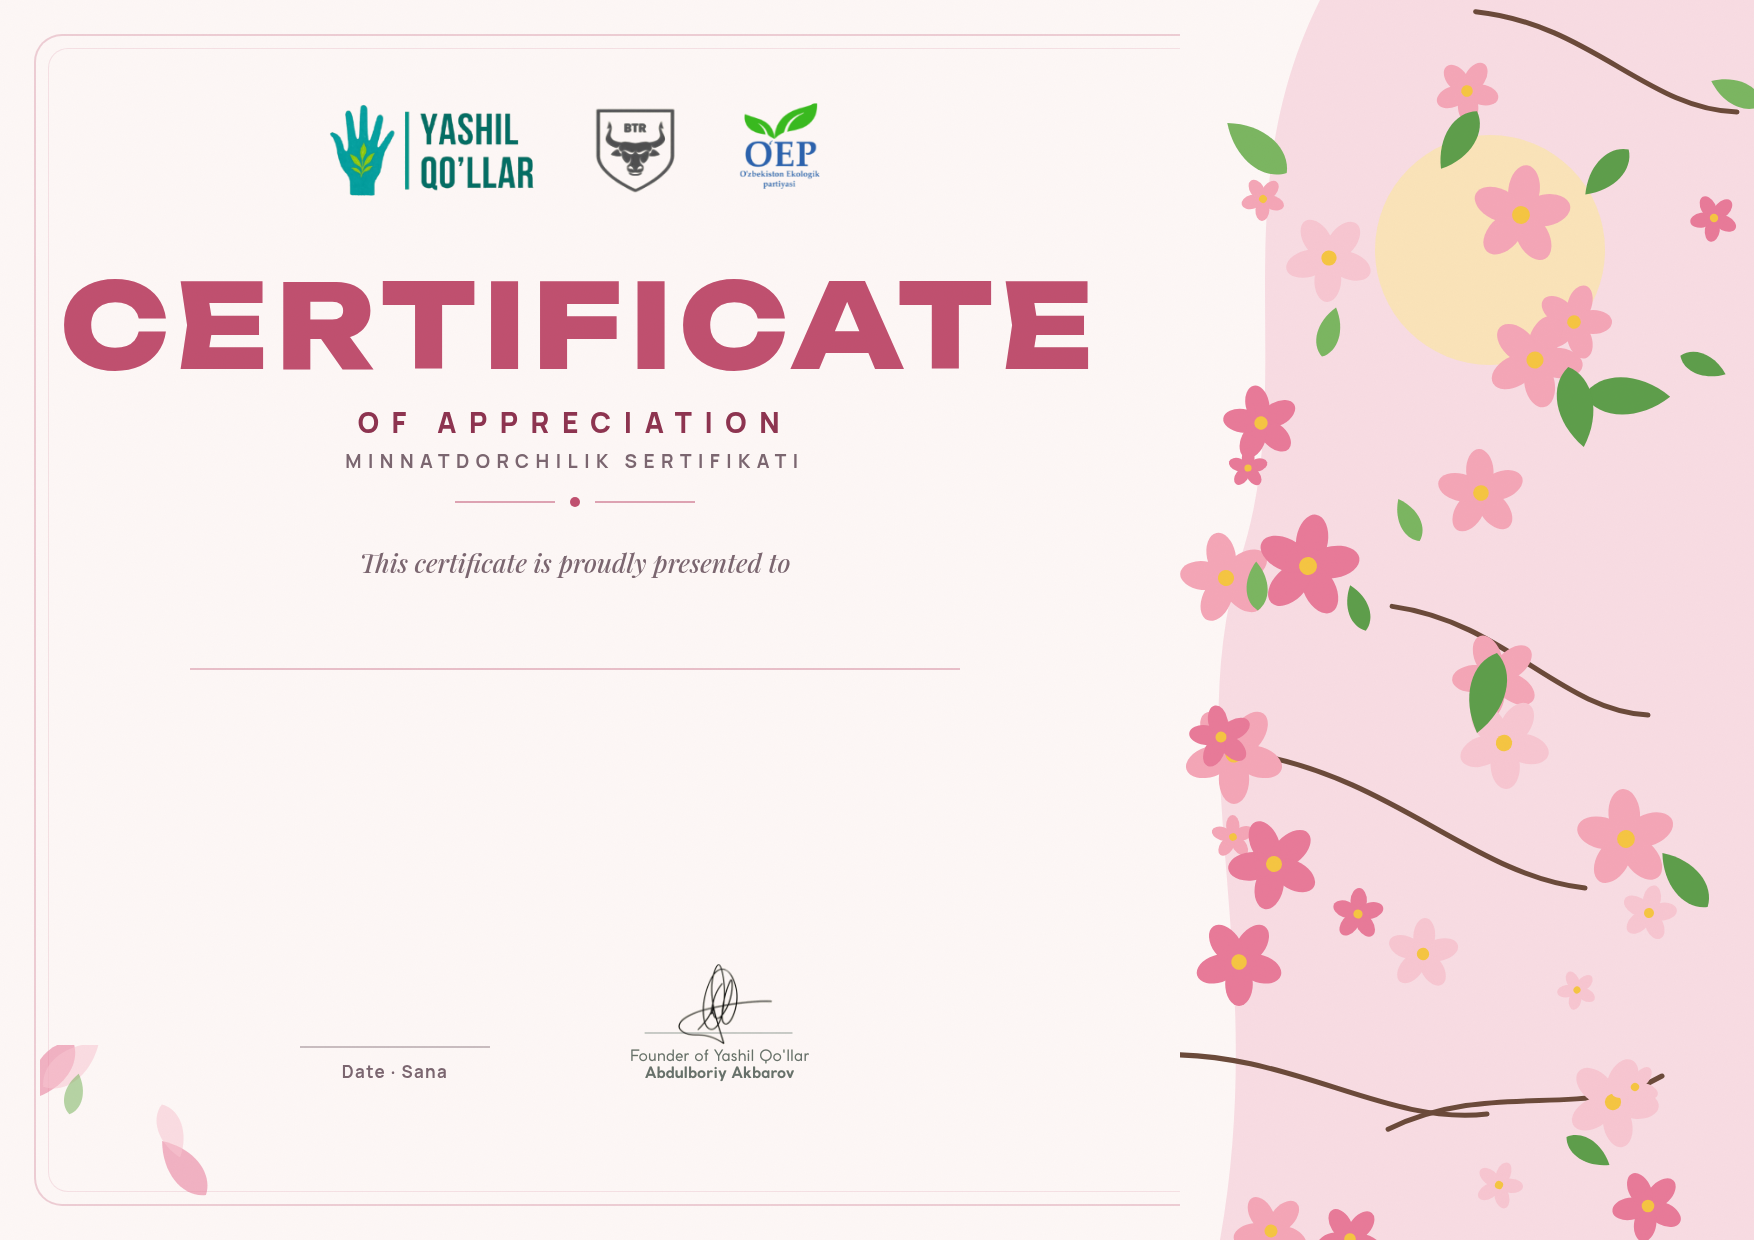
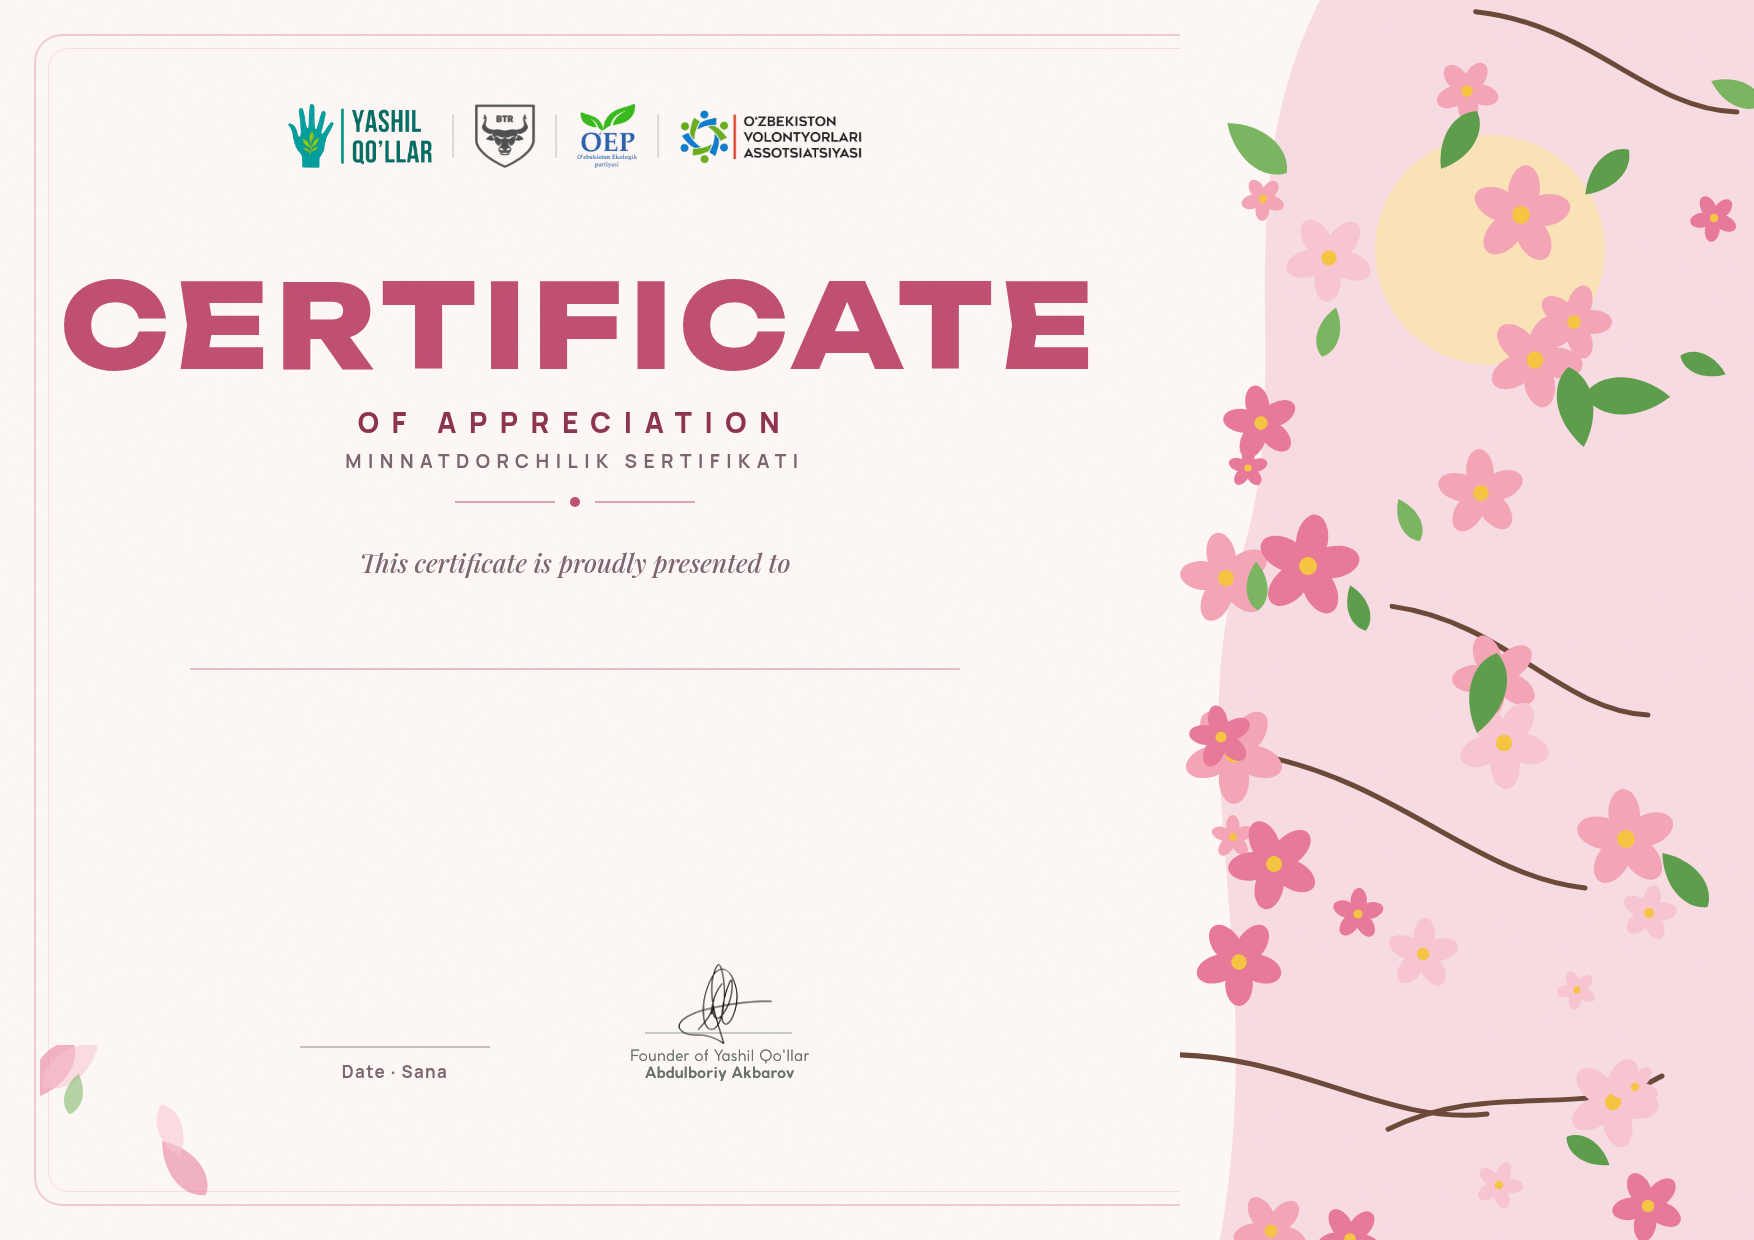
Сертификаты: 4-й логотип — O'zbekiston Volontyorlari Assotsiatsiyasi
Дизайн прежний (сезонные kuz/qish/bahor/yoz), изменён только ряд логотипов вверху:
Yashil Qo'llar · BTR · OEP · O'zbekiston Volontyorlari Assotsiatsiyasi.
Генератор теперь самодостаточный: логотипы и подпись в seasons/src/, рендер Chrome прямо в PNG
(один профиль + прогрев, чтобы шрифты успевали загрузиться).

Changed region(s): [[0.1539, 0.0613, 0.4926, 0.1532]]

diff --git a/app_telegram/cert_assets/seasons/_generate.py b/app_telegram/cert_assets/seasons/_generate.py
@@ -1,6 +1,11 @@
-"""Генерация сезонных дизайнов сертификата (HTML/SVG → Chrome → PNG 1754×1240)."""
-import math, random, sys
-S = sys.argv[1]
+"""Генерация сезонных дизайнов сертификата (HTML/SVG → Chrome → PNG 1754×1240).
+
+  python _generate.py   → kuz.png, qish.png, bahor.png, yoz.png рядом с этим файлом
+Логотипы (Yashil Qo'llar, BTR, OEP, O'zbekiston Volontyorlari Assotsiatsiyasi) и подпись — в src/.
+"""
+import math, random, subprocess, tempfile
+from pathlib import Path
+HERE = Path(__file__).resolve().parent
 MAPLE = "M0,-50 L8,-30 L22,-38 L18,-18 L38,-22 L30,-8 L46,2 L24,8 L28,24 L8,16 L4,42 L0,30 L-4,42 L-8,16 L-28,24 L-24,8 L-46,2 L-30,-8 L-38,-22 L-18,-18 L-22,-38 L-8,-30 Z"
 LEAF = "M0,-40 C22,-26 24,10 0,40 C-24,10 -22,-26 0,-40 Z"
 SEASONS = {
@@ -77,7 +82,8 @@ def corner_svg(season, c):
         g.append(f'<g transform="translate({x:.0f},{y:.0f}) rotate({r.uniform(0, 360):.0f}) scale({s:.2f})"><path d="{shape}" fill="{col}" opacity=".55"/></g>')
     return f'<svg width="170" height="160" xmlns="http://www.w3.org/2000/svg">{"".join(g)}</svg>'
 
-for season, c in SEASONS.items():
+PROFILE = tempfile.mkdtemp()   # один профиль Chrome на все сезоны: шрифты Google скачиваются один раз (прогрев ниже)
+for season, c in [("kuz", SEASONS["kuz"])] + list(SEASONS.items()):
     html = f"""<!doctype html><html><head><meta charset="utf-8">
 <link href="https://fonts.googleapis.com/css2?family=Unbounded:wght@700;800&family=Manrope:wght@500;700;800&family=Playfair+Display:ital,wght@1,500&display=block" rel="stylesheet">
 <style>
@@ -89,7 +95,9 @@ for season, c in SEASONS.items():
  .panel {{ position:absolute; right:0; top:0; }}
  .frame {{ position:absolute; left:34px; top:34px; width:1146px; height:1172px; border:2px solid {c["accent"]}40; border-right:none; border-radius:28px 0 0 28px; }}
  .frame2 {{ position:absolute; left:48px; top:48px; width:1132px; height:1144px; border:1px solid {c["accent"]}22; border-right:none; border-radius:20px 0 0 20px; }}
- .logos {{ position:absolute; left:{575 - 250}px; top:98px; width:500px; }}
+ .logos {{ position:absolute; left:575px; top:104px; transform:translateX(-50%); display:flex; align-items:center; gap:20px; }}
+ .logos img {{ height:64px; display:block; }} .logos img.uva {{ height:56px; }}
+ .logos i {{ width:2px; height:44px; background:rgba(0,0,0,.12); }}
  .title {{ position:absolute; left:60px; width:1030px; top:268px; text-align:center; font:800 116px/1 Unbounded, sans-serif; letter-spacing:.06em; color:{c["title_c"]}; }}
  .sub {{ position:absolute; left:60px; width:1030px; top:408px; text-align:center; font:800 28px/1 Manrope; letter-spacing:.45em; color:{c["accent2"]}; }}
  .sub2 {{ position:absolute; left:60px; width:1030px; top:452px; text-align:center; font:700 19px/1 Manrope; letter-spacing:.34em; color:{c["muted"]}; text-transform:uppercase; }}
@@ -98,12 +106,12 @@ for season, c in SEASONS.items():
  .nameline {{ position:absolute; left:190px; width:770px; top:668px; height:2px; background:{c["accent"]}55; }}
  .dateline {{ position:absolute; left:300px; width:190px; top:1046px; height:2px; background:{c["muted"]}66; }}
  .datelbl {{ position:absolute; left:300px; width:190px; top:1060px; text-align:center; font:600 17px Manrope; color:{c["muted"]}; letter-spacing:.08em; }}
- .sign {{ position:absolute; left:{720 - 95}px; top:958px; width:190px; }}
+ .sign {{ position:absolute; left:631px; top:964px; width:178px; }}   /* подпись + «Founder of Yashil Qo'llar» (src/signature.png) */
  .corner {{ position:absolute; left:40px; bottom:30px; }}
 </style></head><body><div class="page">
  <div class="panel">{panel_svg(season, c)}</div>
  <div class="frame"></div><div class="frame2"></div>
- <img class="logos" src="logos.png">
+ <div class="logos"><img src="src/logo_yq.png"><i></i><img src="src/logo_btr.png"><i></i><img src="src/logo_oep.png"><i></i><img class="uva" src="src/logo_uva.png"></div>
  <div class="title">CERTIFICATE</div>
  <div class="sub">OF APPRECIATION</div>
  <div class="sub2">Minnatdorchilik sertifikati</div>
@@ -111,9 +119,15 @@ for season, c in SEASONS.items():
  <div class="pres">This certificate is proudly presented to</div>
  <div class="nameline"></div>
  <div class="dateline"></div><div class="datelbl">Date · Sana</div>
- <img class="sign" src="signature.png">
+ <img class="sign" src="src/signature.png">
  <div class="corner">{corner_svg(season, c)}</div>
  <div class="grain"></div>
 </div></body></html>"""
-    open(f"{S}/cert3/{season}.html", "w").write(html)
-print("ok")
+    f = HERE / f"_{season}.html"; f.write_text(html)
+    subprocess.run(["google-chrome", "--headless=new", "--hide-scrollbars", f"--user-data-dir={PROFILE}",
+                    "--force-device-scale-factor=1", "--window-size=1754,1540", "--virtual-time-budget=8000",
+                    "--allow-file-access-from-files", f"--screenshot={HERE / f'{season}.png'}", f.as_uri()], check=True, capture_output=True)
+    f.unlink()
+    from PIL import Image   # headless Chrome съедает низ окна → снимаем с запасом и режем до листа
+    Image.open(HERE / f"{season}.png").convert("RGB").crop((0, 0, 1754, 1240)).save(HERE / f"{season}.png", optimize=True)
+    print("✓", season)
